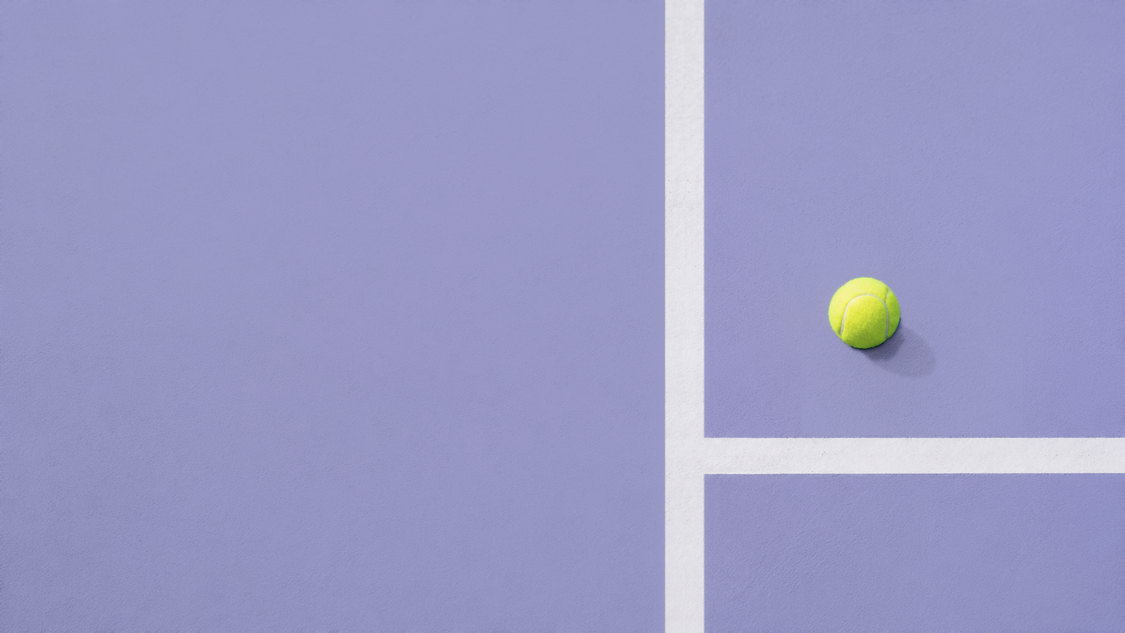
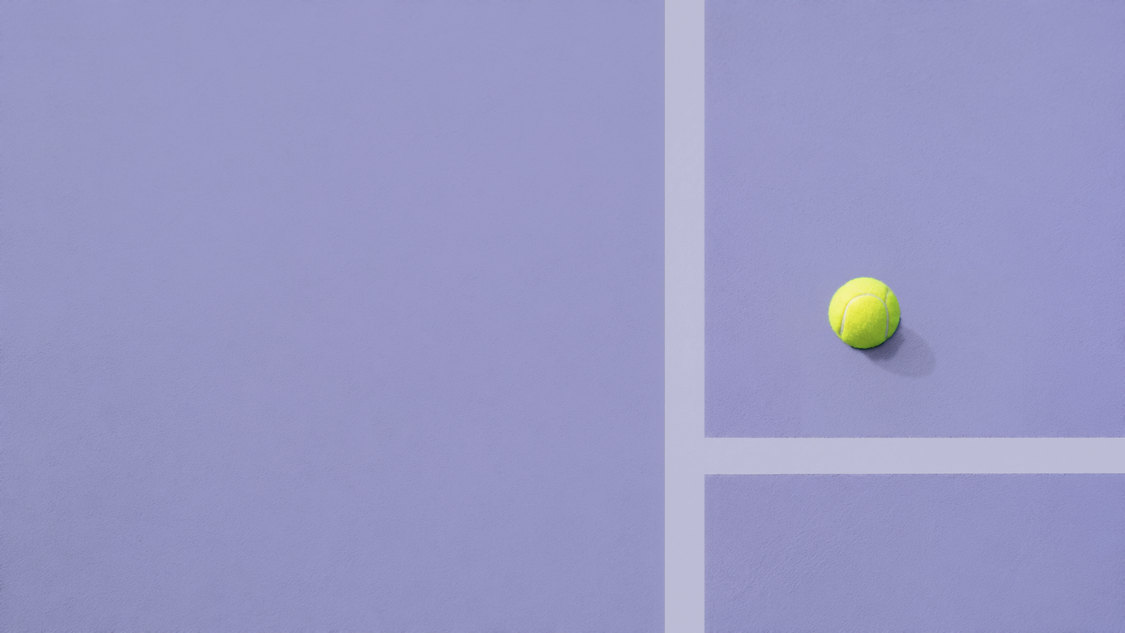
背景图统一成活动首页球场图的质感：6 张卡片背景去掉脏斑（色斑、颗粒压到和球场图一样，场地色统一 #9697C5，战绩卡、记分牌网球饱和度降到 56）；球场图白线调淡一半（白线和页面底色太像，通到卡片边缘像图片裂开）；活动首页顶部加 60rpx 从导航栏色淡出的渐变，去掉导航栏和球场图之间的硬边

Changed region(s): [[0.5911, 0.0, 1.0, 1.0]]

diff --git a/CLAUDE.md b/CLAUDE.md
@@ -59,7 +59,7 @@
 
 ## 界面约定
 - **界面用语不用赛事说法**（个人主体不能办赛事，审核会看文字）：给用户看的文字统一用「活动名称（创建 / 编辑页的名称栏按用户要求叫「比赛名称」）、分组循环、单淘汰、循环＋淘汰、对阵 / 对阵表、场次、进入下一轮、最后一轮 / N 强、规则、参加」，不要写「小组赛、淘汰赛、签表、赛程、抽签、出线 / 晋级、决赛 / 半决赛、赛制、参赛、赛事」。**种子（2026-11-22 用户要求把「分开排位」改成看得懂的种子设置）**：「种子」只用在种子设置相关的界面——创建 / 生成对阵页的种子区块（单打叫「种子选手」、双打叫「种子队伍」，已选名单显示「N 号种子」，推荐提示「已按水平推荐 N 位种子选手 / N 支种子队伍」）、活动详情的种子名单（旧活动的 `seeds` 一样显示）、活动列表卡片的种子数；只用「种子选手 / 种子队伍 / N 号种子 / 种子优先轮空」这几种说法，其他页面不出现「种子」，也不再用「分开排位」。生成逻辑和数据结构（`draws.seeds`、`D.makeBracket` 的 1、2 号分上下半区、`D.makeGroups` 的蛇形分组）不变。形式名用 `E.MODES`，轮次名用 `D.roundName`；旧比分记录里存的旧阶段名展示时经 `E.stageText`（`E.publicMatch` 已处理），冠军认定（`utils/career.js` 的 `isFinal`）新旧叫法都认。代码注释、文档和数据字段可以沿用旧叫法。也不用「球友圈、圈子、社区、社群、交友」这类社交圈子说法（「加入球友圈」2026-11-19 没过审核）。`tests/review-surface.test.js` 会扫描所有页面的界面文字（「种子」只允许出现在 `pages/draw-new`、`pages/draw-view`、`pages/draw` 的上述说法里）。
-- 风格是「记分牌 / 体育数据」：靠数字、首字圆和图形出层次，图片只作氛围（见下面「界面配图」）。颜色和组件的说明在 `app.wxss` 开头。**界面配图（2026-11-22 用户确认）**：开发者内置的球场照片、网球插画、背景图属于界面素材，个人主体可以用（审核拒的是用户上传、记录、分享的内容），用户打算给更多页面加背景图（图由用户另外生成，自有或有授权）。原则：每页最多一张背景图，只放在该页原来的渐变块（hero）上，文字和按钮一律是页面组件、不做进图片；列表、表单、数据区不铺图；淡紫为主，网球黄绿只作点缀；场地颜色要和原来的渐变卡片一样淡（平均接近 `#9696C2`，白字对比约 2.9，不要更深、不要偏蓝；2026-11-22 用户嫌 GPT 第一批图不够淡，已统一提亮），新图偏深就先提亮场地色、白线和网球不动；图片放包里的 `images/`，压缩后单张背景不超过 80KB。写法统一用 `app.wxss` 的 `.bg-host`（卡片）+ 第一个子元素 `<image class="bg-img" src="/images/…" mode="aspectFill" />`，卡片 background 写成和图相近的纯色（图没显示前不闪白）；放图前先按卡片实际内容排一遍，主体（网球、白线）不能压在文字、比分、黄绿标签后面，需要时在图上挪球、调暗线条。已有：活动首页顶部球场图 `images/hero-court.jpg`（文字和按钮在左边约 56% 的纯色场地上）；比赛详情记分牌 `images/bg-score.jpg`（球网竖在正中间对应两方，网带已调暗、网球挪到右下角）；战绩页「我的战绩」卡 `images/bg-mine.jpg`（截掉底部让球网落在卡片底边，卡片底部内边距 64rpx 留给球网）；活动详情顶部 `bg-event.jpg`（只在右上角留一个调暗的小直角线）；球员卡 `bg-card.jpg`（纯纹理，卡片自己画的斜放球场线照常叠在上面）；准入页 `bg-gate.jpg`（去掉了图里的球，上方是网球插画）；成长档案 `bg-growth.jpg`（球在右上角）。空状态插画用全局 `.empty-art`（`<image class="empty-art" src="/images/art-*.png" mode="aspectFit" />`）：`art-ball` 通用（没有比赛记录、球拍、读取失败）、`art-net` 活动首页（暂无活动 / 暂无下一场）、`art-basket` 成长档案、`art-trophy` 排行榜；准入页标题上方也是 `art-ball`。不要再用 CSS 画的 `.empty-ball`。分享封面底图 `images/share-bg.jpg`（`utils/share-card.js` 画布先铺底图，加载不出来照旧画渐变），固定封面 `images/share.jpg`。生涯成就徽章用 `images/badges/<徽章 id>.png`（2026-11-22 第三批重做：统一的淡紫圆形章牌 + 白 / 黄绿图案，同类等级用章牌下沿 1～3 颗星；图标本身是圆的，页面上不再套白色小圆；还没有正式比赛时「我的」也显示生涯成就卡，徽章全是未达成、默认只露前 8 个；「我的」里成长档案、成员管理入口的图标是 `art-basket` 和击掌章牌 `badges/social`，不用 emoji；新增徽章要按同样样式补图标，`tests/player-card.test.js` 检查），`career.js` 的徽章已不带 emoji。界面上不用彩色 emoji（和 3D 配图不搭；2026-11-22 用户确认）：冠军用黄绿 `.ui-tag lime` 或奖杯插画 `art-trophy`，排行榜前三用数字圆章，地点、时间前面不加图标；✓ ★ ✕ 这类单色符号可以用（`tests/player-card.test.js` 扫描页面和组件）。球拍页顶部卡片右边的通用球拍图 `images/racket-hero.png`（透明底、无品牌，每支球拍仍用 `<rk-art>`）。用户上传的图片仍只有球员照片一处（`tests/review-surface.test.js` 检查）。
+- 风格是「记分牌 / 体育数据」：靠数字、首字圆和图形出层次，图片只作氛围（见下面「界面配图」）。颜色和组件的说明在 `app.wxss` 开头。**界面配图（2026-11-22 用户确认）**：开发者内置的球场照片、网球插画、背景图属于界面素材，个人主体可以用（审核拒的是用户上传、记录、分享的内容），用户打算给更多页面加背景图（图由用户另外生成，自有或有授权）。原则：每页最多一张背景图，只放在该页原来的渐变块（hero）上，文字和按钮一律是页面组件、不做进图片；列表、表单、数据区不铺图；淡紫为主，网球黄绿只作点缀；场地颜色要和原来的渐变卡片一样淡（平均接近 `#9696C2`，白字对比约 2.9，不要更深、不要偏蓝；2026-11-22 用户嫌 GPT 第一批图不够淡，已统一提亮），新图偏深就先提亮场地色、白线和网球不动；场地纹理统一按活动首页球场图 `hero-court.jpg` 的质感（2026-11-22 用户嫌球员卡、战绩卡的颗粒「脏脏的」，又说「要的就是活动首页球场图那种效果」，不要抹成塑料一样的纯色）：场地亮度的色斑（4～40px）约 0.4、颗粒（4px 以下）约 1.1（标准差，压缩后实测），线、球网、网球、球影不动；`bg-card` / `bg-mine` / `bg-score` / `bg-event` / `bg-gate` / `bg-growth` 都已按此处理，新图照此处理；图片放包里的 `images/`，压缩后单张背景不超过 80KB。写法统一用 `app.wxss` 的 `.bg-host`（卡片）+ 第一个子元素 `<image class="bg-img" src="/images/…" mode="aspectFill" />`，卡片 background 写成和图相近的纯色（图没显示前不闪白）；放图前先按卡片实际内容排一遍，主体（网球、白线）不能压在文字、比分、黄绿标签后面，需要时在图上挪球、调暗线条。已有：活动首页顶部球场图 `images/hero-court.jpg`（文字和按钮在左边约 56% 的纯色场地上；白线调淡一半成浅紫，2026-11-22 用户说白线和页面底色太像、通到卡片边缘像图片被分开了；卡片顶部 `.hero::after` 有 60rpx 从导航栏色 `#A3A3CB` 淡出的渐变，避免导航栏和图片两种相近的紫拼出硬边，换图时保留）；比赛详情记分牌 `images/bg-score.jpg`（球网竖在正中间对应两方，网带已调暗、网球挪到右下角）；战绩页「我的战绩」卡 `images/bg-mine.jpg`（截掉底部让球网落在卡片底边，卡片底部内边距 64rpx 留给球网）；活动详情顶部 `bg-event.jpg`（只在右上角留一个调暗的小直角线）；球员卡 `bg-card.jpg`（纯纹理，卡片自己画的斜放球场线照常叠在上面）；准入页 `bg-gate.jpg`（去掉了图里的球，上方是网球插画）；成长档案 `bg-growth.jpg`（球在右上角）。空状态插画用全局 `.empty-art`（`<image class="empty-art" src="/images/art-*.png" mode="aspectFit" />`）：`art-ball` 通用（没有比赛记录、球拍、读取失败）、`art-net` 活动首页（暂无活动 / 暂无下一场）、`art-basket` 成长档案、`art-trophy` 排行榜；准入页标题上方也是 `art-ball`。不要再用 CSS 画的 `.empty-ball`。分享封面底图 `images/share-bg.jpg`（`utils/share-card.js` 画布先铺底图，加载不出来照旧画渐变），固定封面 `images/share.jpg`。生涯成就徽章用 `images/badges/<徽章 id>.png`（2026-11-22 第三批重做：统一的淡紫圆形章牌 + 白 / 黄绿图案，同类等级用章牌下沿 1～3 颗星；图标本身是圆的，页面上不再套白色小圆；还没有正式比赛时「我的」也显示生涯成就卡，徽章全是未达成、默认只露前 8 个；「我的」里成长档案、成员管理入口的图标是 `art-basket` 和击掌章牌 `badges/social`，不用 emoji；新增徽章要按同样样式补图标，`tests/player-card.test.js` 检查），`career.js` 的徽章已不带 emoji。界面上不用彩色 emoji（和 3D 配图不搭；2026-11-22 用户确认）：冠军用黄绿 `.ui-tag lime` 或奖杯插画 `art-trophy`，排行榜前三用数字圆章，地点、时间前面不加图标；✓ ★ ✕ 这类单色符号可以用（`tests/player-card.test.js` 扫描页面和组件）。球拍页顶部卡片右边的通用球拍图 `images/racket-hero.png`（透明底、无品牌，每支球拍仍用 `<rk-art>`）。用户上传的图片仍只有球员照片一处（`tests/review-surface.test.js` 检查）。
 - 主题色为淡紫 `#A3A3CB`（描边、装饰）；浅色背景上的紫色文字用 `#6E6EA3`；重点渐变为 `#A3A3CB → #8484B6`（淡紫风格，用户明确要求保留，不要再改成深紫），每页只给最重要的一块用。点缀色网球黄绿 `#C9E33A`（文字 `#2E3600`）只用在胜、冠军、报名中这类正向状态。
 - 按钮只用三种：`.btn-primary`、`.btn-line`（次要）、`.btn-danger`（撤销等），不要再用带下划线的文字链接；卡片标题右边、列表行里的小操作（全选、编辑、上移等）用小号 `.btn-line mini`，不用纯文字链接；小标签用 `.ui-tag`（`lime` / `solid` / `warn` / `bad`）。
 - 导航栏是淡紫底 `#A3A3CB` 白字；标签栏共 5 个：活动、战绩、排行、球拍、我的，图标在 `images/tab/`（未选中 `#A8A8BA`、选中 `#7A7AB0`，81×81），选中文字色 `#6E6EA3`。
